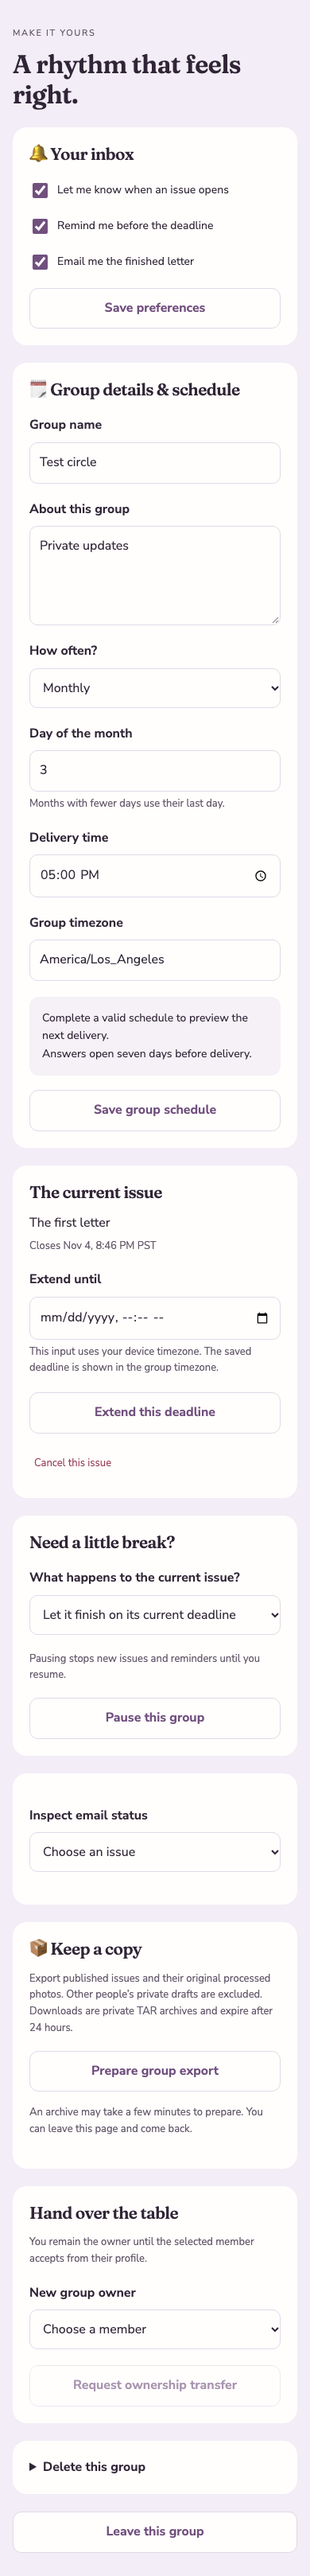
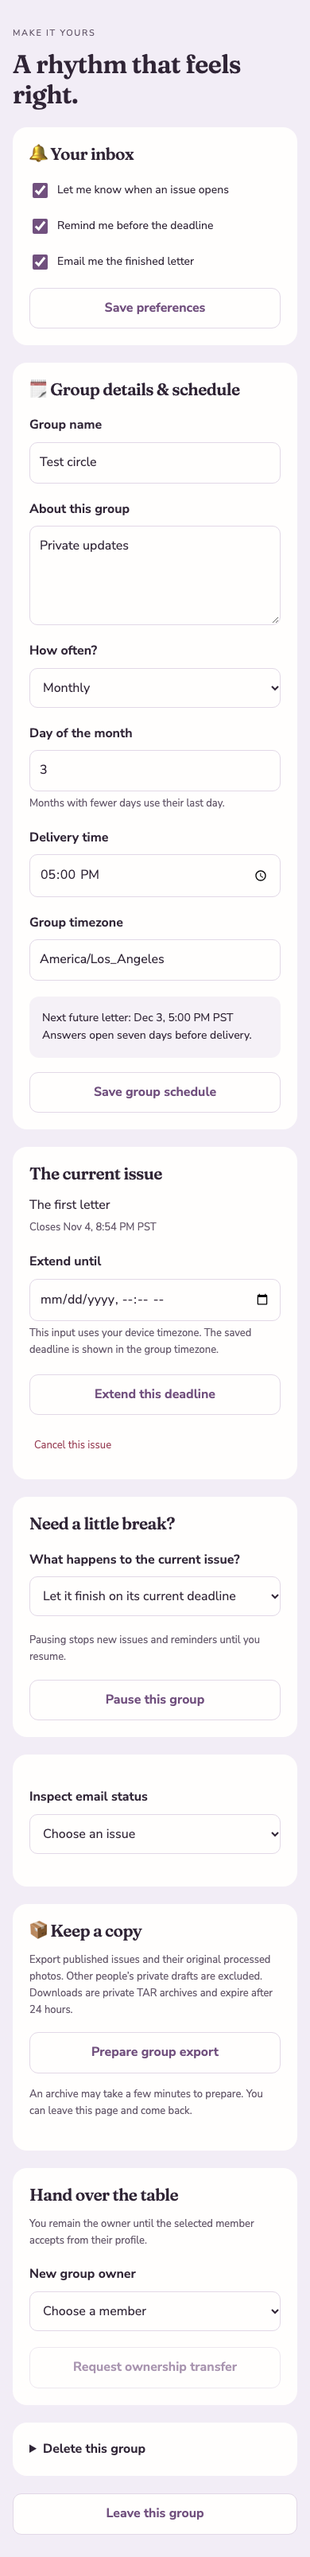
Format browser regressions and capture the loaded schedule preview

diff --git a/e2e/review.spec.ts b/e2e/review.spec.ts
@@ -327,6 +327,7 @@ test("mobile and desktop composition and settings have no page overflow or autom
   await expect(
     page.getByRole("heading", { name: "A rhythm that feels right." }),
   ).toBeVisible();
+  await expect(page.getByText(/Next future letter:/)).toBeVisible();
   await page
     .locator("main")
     .screenshot({ path: "docs/evidence/mobile-settings.png" });
@@ -456,13 +457,11 @@ test("a photo larger than one MiB is compressed before the upload request", asyn
   });
   const input = Buffer.from(url.split(",")[1], "base64");
   expect(input.length).toBeGreaterThan(1048576);
-  await page
-    .getByLabel("Add a photo")
-    .setInputFiles({
-      name: "large-noise.png",
-      mimeType: "image/png",
-      buffer: input,
-    });
+  await page.getByLabel("Add a photo").setInputFiles({
+    name: "large-noise.png",
+    mimeType: "image/png",
+    buffer: input,
+  });
   await expect(page.locator("figure img")).toHaveCount(1);
   await saved(page);
   const row = await h.db
